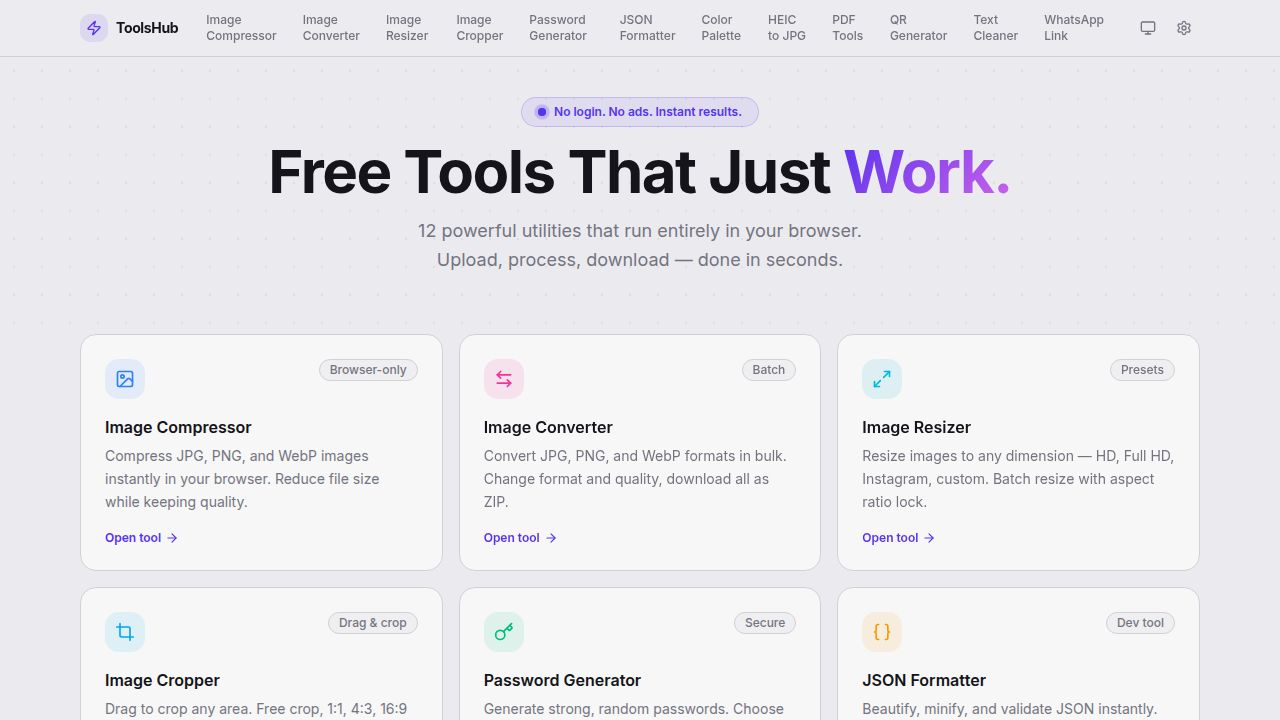
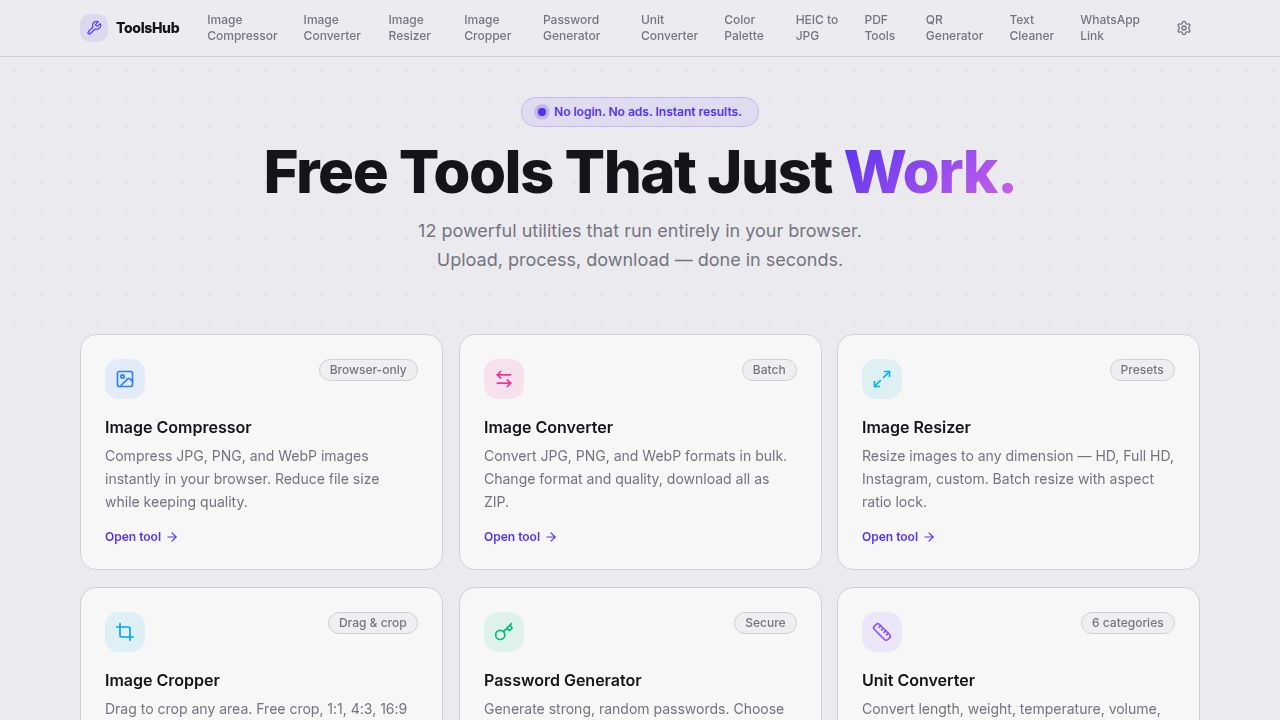
Improve website performance and responsiveness for a smoother user experience
Optimize build with Vite chunk splitting, minify code with esbuild, improve font loading, add CSS performance hints, memoize ToolCard, and optimize page transitions.

Replit-Commit-Author: Agent
Replit-Commit-Session-Id: 35650728-ceb4-4a18-bf85-f085c1a16ab2
Replit-Commit-Checkpoint-Type: full_checkpoint
Replit-Commit-Event-Id: de12a9ae-f0f0-4450-83bb-5e84ceb4e8cd
Replit-Commit-Screenshot-Url: https://storage.googleapis.com/screenshot-production-us-central1/74ba704a-0702-42b8-8ea4-973d98aa73fe/35650728-ceb4-4a18-bf85-f085c1a16ab2/ICppOSE
Replit-Helium-Checkpoint-Created: true

diff --git a/artifacts/tools-hub/src/index.css b/artifacts/tools-hub/src/index.css
@@ -355,4 +355,46 @@
     background: hsl(var(--primary) / 0.35);
     animation: pulse-ring 2s ease-in-out infinite;
   }
+
+  /* ── Performance & smoothness ── */
+
+  /* GPU-accelerate card hover transforms */
+  .card-glow {
+    will-change: transform;
+    backface-visibility: hidden;
+  }
+
+  /* Smooth scrolling */
+  html {
+    scroll-behavior: smooth;
+    -webkit-font-smoothing: antialiased;
+    -moz-osx-font-smoothing: grayscale;
+    text-rendering: optimizeSpeed;
+  }
+
+  /* Instant page transitions - no layout jank */
+  #root {
+    isolation: isolate;
+  }
+
+  /* Respect reduced motion preferences */
+  @media (prefers-reduced-motion: reduce) {
+    *, *::before, *::after {
+      animation-duration: 0.01ms !important;
+      animation-iteration-count: 1 !important;
+      transition-duration: 0.01ms !important;
+    }
+    .card-glow {
+      transition: none !important;
+    }
+    html {
+      scroll-behavior: auto;
+    }
+  }
+
+  /* Faster hover transitions for interactive elements */
+  button, a, [role="button"] {
+    -webkit-tap-highlight-color: transparent;
+    touch-action: manipulation;
+  }
 }

diff --git a/artifacts/tools-hub/index.html b/artifacts/tools-hub/index.html
@@ -2,20 +2,25 @@
 <html lang="en">
   <head>
     <meta charset="UTF-8" />
-    <meta name="viewport" content="width=device-width, initial-scale=1.0, maximum-scale=1" />
-    <title>Zero-Friction Tools Hub</title>
-    <meta name="description" content="Zero-Friction Tools Hub — built on Replit. Update this description to reflect the app." />
+    <meta name="viewport" content="width=device-width, initial-scale=1.0, maximum-scale=5" />
+    <title>ToolsHub — Free Online Tools, No Signup</title>
+    <meta name="description" content="Free online tools: compress images, convert PDFs, generate QR codes, convert units, and more. No signup, no ads, instant browser-side results." />
     <meta name="robots" content="index, follow" />
-    <meta property="og:title" content="Zero-Friction Tools Hub" />
-    <meta property="og:description" content="Zero-Friction Tools Hub — built on Replit. Update this description to reflect the app." />
+    <meta property="og:title" content="ToolsHub — Free Tools That Just Work" />
+    <meta property="og:description" content="12 powerful utilities that run entirely in your browser. No upload, no ads, instant results." />
     <meta property="og:type" content="website" />
     <meta name="twitter:card" content="summary_large_image" />
-    <meta name="twitter:title" content="Zero-Friction Tools Hub" />
-    <meta name="twitter:description" content="Zero-Friction Tools Hub — built on Replit. Update this description to reflect the app." />
+    <meta name="twitter:title" content="ToolsHub — Free Tools That Just Work" />
+    <meta name="twitter:description" content="12 powerful utilities that run entirely in your browser. No upload, no ads, instant results." />
     <link rel="icon" type="image/svg+xml" href="/favicon.svg" />
-    <link rel="preconnect" href="https://fonts.googleapis.com">
-    <link rel="preconnect" href="https://fonts.gstatic.com" crossorigin>
-    <link href="https://fonts.googleapis.com/css2?family=Inter:wght@400;500;600;700&display=swap" rel="stylesheet">
+    <!-- Fonts: preconnect first, then load with swap for zero flash -->
+    <link rel="preconnect" href="https://fonts.googleapis.com" crossorigin />
+    <link rel="preconnect" href="https://fonts.gstatic.com" crossorigin />
+    <link rel="preload" as="style" href="https://fonts.googleapis.com/css2?family=Inter:wght@400;500;600;700;800&display=swap" />
+    <link rel="stylesheet" href="https://fonts.googleapis.com/css2?family=Inter:wght@400;500;600;700;800&display=swap" media="print" onload="this.media='all'" />
+    <noscript>
+      <link rel="stylesheet" href="https://fonts.googleapis.com/css2?family=Inter:wght@400;500;600;700;800&display=swap" />
+    </noscript>
   </head>
   <body>
     <div id="root"></div>

diff --git a/artifacts/tools-hub/vite.config.ts b/artifacts/tools-hub/vite.config.ts
@@ -57,6 +57,22 @@ export default defineConfig({
   build: {
     outDir: path.resolve(import.meta.dirname, "dist/public"),
     emptyOutDir: true,
+    target: "esnext",
+    minify: "esbuild",
+    rollupOptions: {
+      output: {
+        manualChunks: {
+          "vendor-react": ["react", "react-dom"],
+          "vendor-zip":   ["jszip"],
+          "vendor-pdf":   ["pdfjs-dist"],
+          "vendor-heic":  ["heic2any"],
+          "vendor-ui":    ["@radix-ui/react-slider", "@radix-ui/react-tooltip"],
+        },
+      },
+    },
+  },
+  optimizeDeps: {
+    include: ["react", "react-dom", "wouter", "@tanstack/react-query"],
   },
   server: {
     port,

diff --git a/artifacts/tools-hub/src/pages/Home.tsx b/artifacts/tools-hub/src/pages/Home.tsx
@@ -1,4 +1,4 @@
-import { useState, useEffect, useMemo } from "react";
+import { useState, useEffect, useMemo, memo } from "react";
 import { Link } from "wouter";
 import {
   Image, FileText, QrCode, AlignLeft, MessageCircle,
@@ -163,7 +163,7 @@ const FEATURES = [
   { icon: Smartphone,  label: "Works Everywhere", sub: "Desktop & mobile" },
 ];
 
-function ToolCard({
+const ToolCard = memo(function ToolCard({
   tool,
   count,
   isFavourite,
@@ -222,7 +222,7 @@ function ToolCard({
       </div>
     </Link>
   );
-}
+});
 
 export default function Home() {
   useSEO({